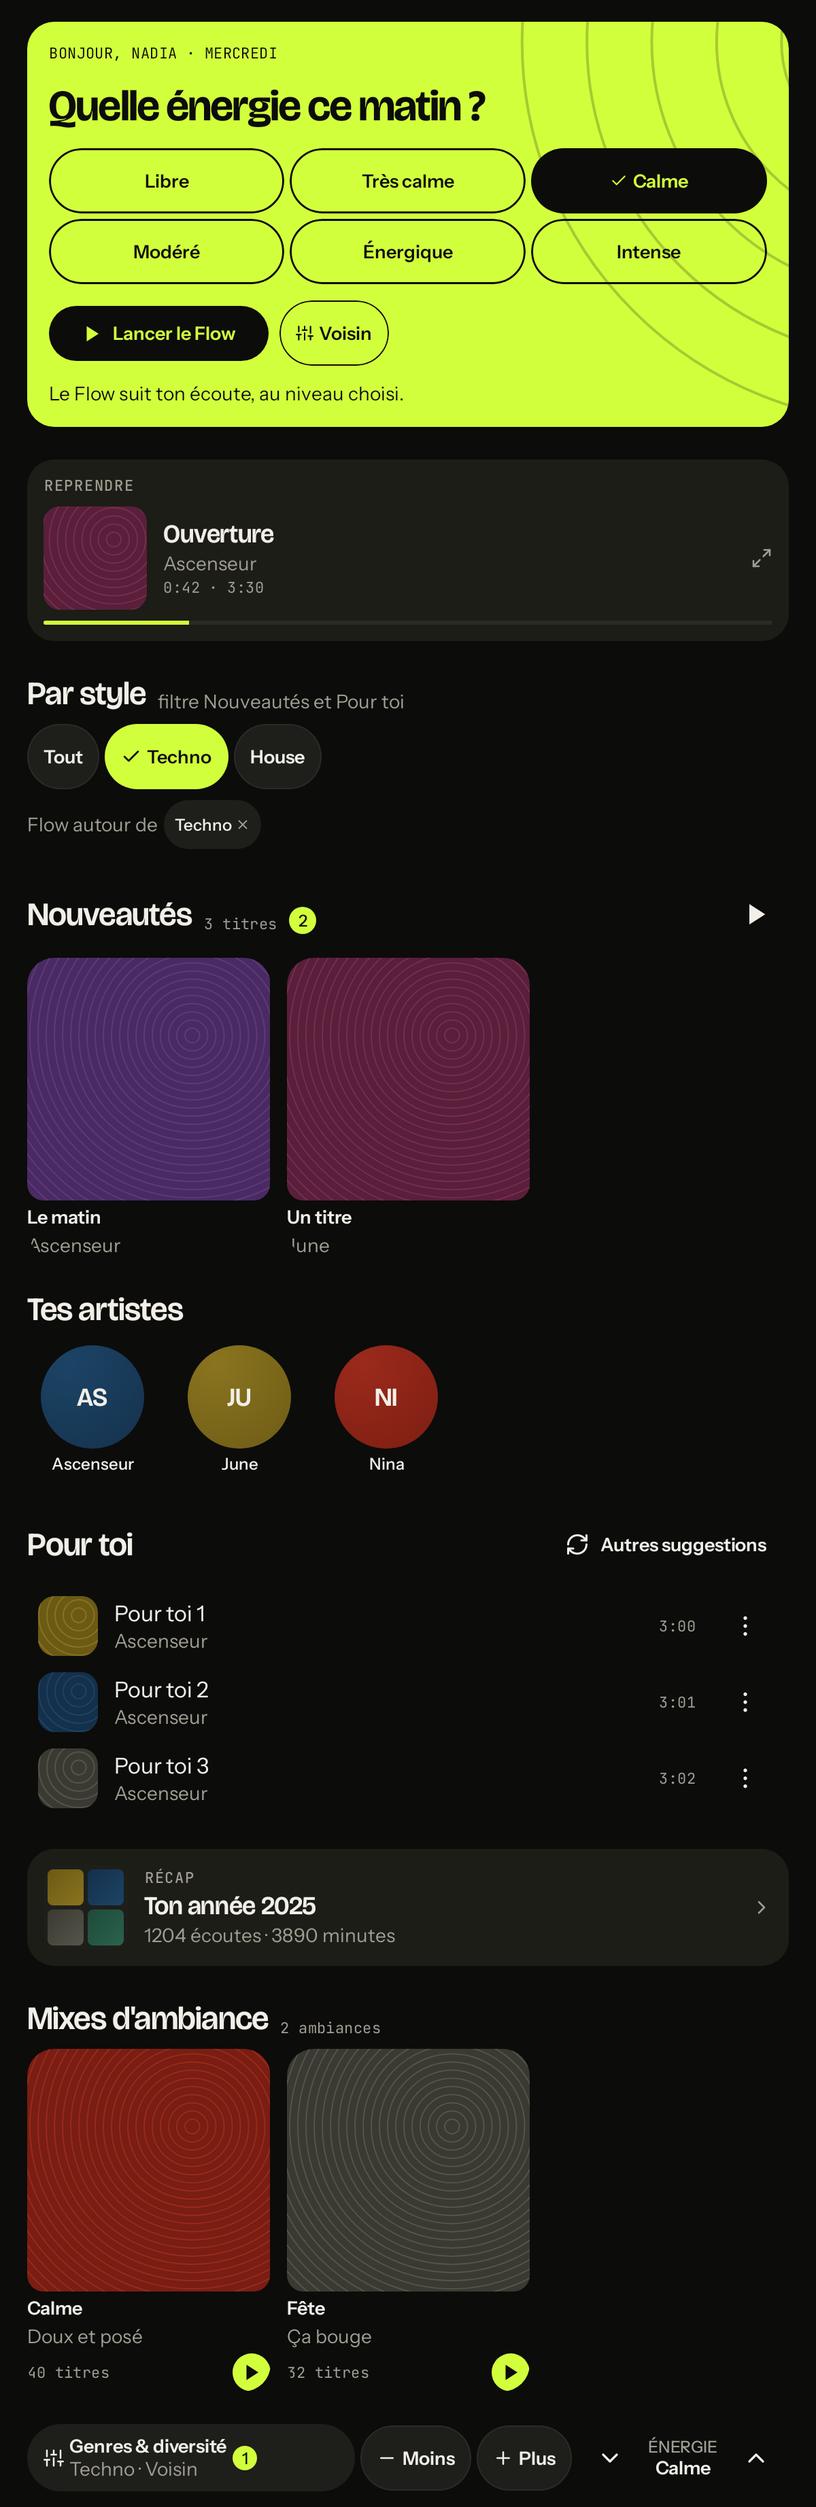
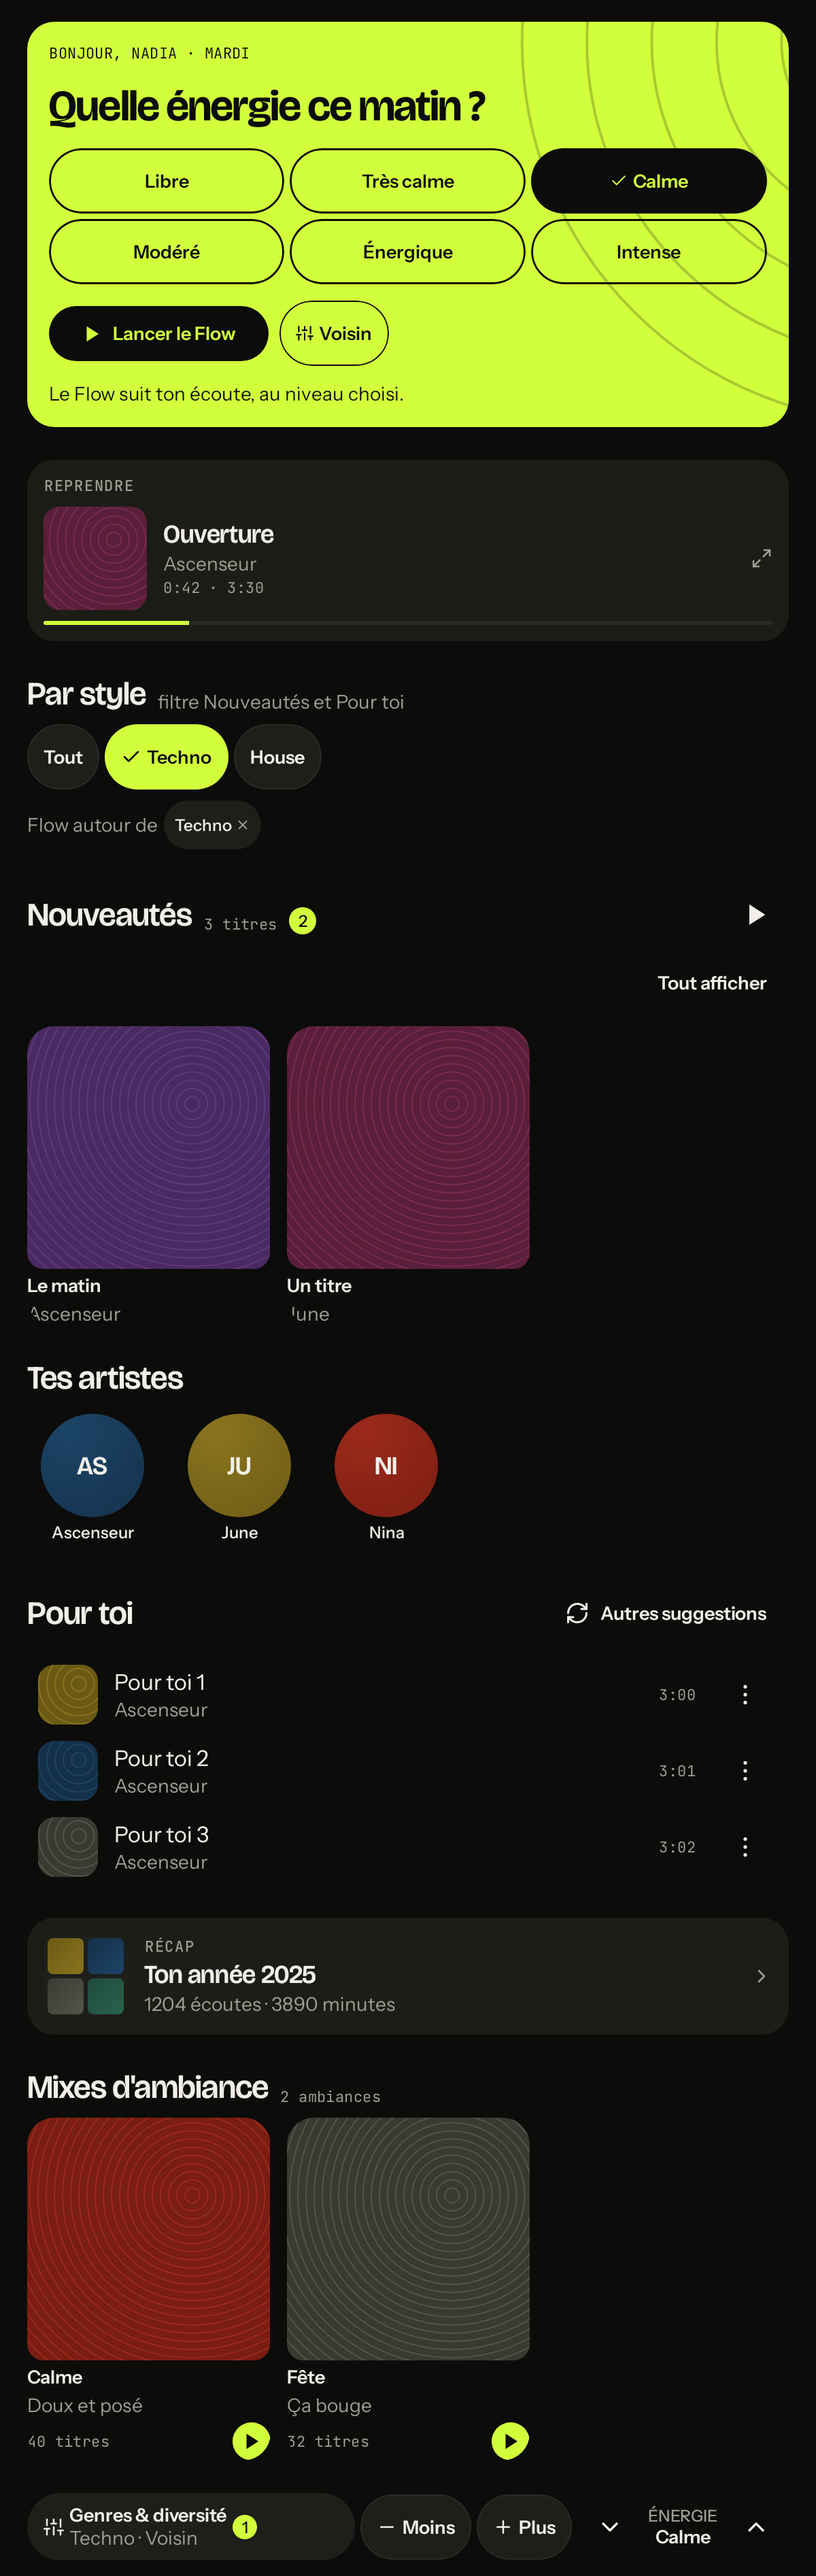
fix(mobile): « Tout afficher » mesure la carte, pas le titre (M8)
Les deux actions empilées dans une colonne de l'en-tête donnaient à cette
colonne la largeur du LIBELLÉ : au rendu 200 % de MB5, « Nouveautés » s'est
coupé en « Nouveau-/tés » et « 3 titres » est passé à un caractère par ligne.
Le lien passe donc sur sa propre rangée, à la même place et au même bord
droit qu'avant ; le titre garde la largeur qu'il avait avant la porte.

Les images de l'accueil de MB5 sont refaites par ce lot : elles montrent la
vraie page (Robolectric, graphismes natifs), 360 et 600 dp, Encre et Papier,
et le 200 % redevient celui d'avant pour le titre.

27 tests JVM verts, lintDebug vert (0 erreur).

diff --git a/mobile/android/feature/home/src/main/java/fr/neezer/mobile/feature/home/HomeScreen.kt b/mobile/android/feature/home/src/main/java/fr/neezer/mobile/feature/home/HomeScreen.kt
@@ -566,43 +566,50 @@ private fun StylePicker(state: HomeModel.State, actions: HomeActions) {
 private fun ReleasesShelf(releases: uniffi.nz_ffi.ReleasesCardData, actions: HomeActions) {
     val colors = Sillon.colors
     Column(verticalArrangement = Arrangement.spacedBy(NzSpacing.s)) {
-        Row(Modifier.fillMaxWidth(), verticalAlignment = Alignment.CenterVertically) {
-            Row(
-                Modifier.weight(1f),
-                verticalAlignment = Alignment.Bottom,
-                horizontalArrangement = Arrangement.spacedBy(NzSpacing.s),
-            ) {
-                Text("Nouveautés", style = Sillon.type.title, color = colors.tx)
-                Text(
-                    if (releases.count > 1u) "${releases.count} titres" else "${releases.count} titre",
-                    style = Sillon.type.mono,
-                    color = colors.dim,
-                )
-                if (releases.unseen > 0u) {
-                    Box(
-                        Modifier
-                            .size(20.dp)
-                            .clip(CircleShape)
-                            .background(colors.ac),
-                        contentAlignment = Alignment.Center,
-                    ) {
-                        Text(
-                            releases.unseen.toString(),
-                            style = Sillon.type.labelSmall,
-                            color = colors.onac,
-                        )
+        // The header, then « Tout afficher » on its OWN row rather than stacked
+        // under the play button in one column (`routes/Home.svelte:252` puts the
+        // link below the action): a column of the two measures as wide as the
+        // LABEL, and at 200 % that squeezed the title « Nouveautés » down to
+        // « Nouveau-/tés » with « 3 titres » one character per line (measured on
+        // the 200 % render of MB5). Both sit at the same right edge either way;
+        // only the title's width changes, and this keeps the width it had before
+        // the door existed.
+        Column(verticalArrangement = Arrangement.spacedBy(NzSpacing.xxs)) {
+            Row(Modifier.fillMaxWidth(), verticalAlignment = Alignment.CenterVertically) {
+                Row(
+                    Modifier.weight(1f),
+                    verticalAlignment = Alignment.Bottom,
+                    horizontalArrangement = Arrangement.spacedBy(NzSpacing.s),
+                ) {
+                    Text("Nouveautés", style = Sillon.type.title, color = colors.tx)
+                    Text(
+                        if (releases.count > 1u) "${releases.count} titres" else "${releases.count} titre",
+                        style = Sillon.type.mono,
+                        color = colors.dim,
+                    )
+                    if (releases.unseen > 0u) {
+                        Box(
+                            Modifier
+                                .size(20.dp)
+                                .clip(CircleShape)
+                                .background(colors.ac),
+                            contentAlignment = Alignment.Center,
+                        ) {
+                            Text(
+                                releases.unseen.toString(),
+                                style = Sillon.type.labelSmall,
+                                color = colors.onac,
+                            )
+                        }
                     }
                 }
-            }
-            Column(
-                horizontalAlignment = Alignment.End,
-                verticalArrangement = Arrangement.spacedBy(NzSpacing.xxs),
-            ) {
                 NzIconButton(
                     glyph = NzGlyph.Play,
                     contentDescription = "Tout lire",
                     onClick = { actions.playAllNew() },
                 )
+            }
+            Row(Modifier.fillMaxWidth(), horizontalArrangement = Arrangement.End) {
                 NzButton(
                     text = "Tout afficher",
                     onClick = { actions.openReleases() },

diff --git a/docs/agents/mobile.md b/docs/agents/mobile.md
@@ -6472,19 +6472,22 @@ cast sur `event.me` est refusé (propriété `val` d'un AUTRE module Gradle) : l
 (`DiscoveryEntries.kt`), donc une seule route pour la porte et la page, jamais un `NavController`
 dans l'écran.
 
-**Pourquoi une colonne et pas deux boutons côte à côte.** À 360 dp, l'en-tête porte déjà le titre,
-le compte (« N titres ») et la pastille des non-vus ; un troisième élément en ligne écrasait le
-titre. Le SPA empile aussi son lien sous l'action de lecture. La première rangée garde `weight(1f)`,
-donc le bouton n'est jamais mesuré à la largeur du titre et son libellé ne s'ellipse pas.
+**Pourquoi « Tout afficher » sur sa propre rangée, et pas empilé sous le bouton de lecture.** Le
+plan empilait les deux dans une `Column` de l'en-tête ; cette colonne mesure alors la largeur du
+LIBELLÉ, et à 200 % elle a pris sur le titre : « Nouveautés » s'est coupé en « Nouveau-/tés » et
+« 3 titres » est passé à un caractère par ligne (mesuré sur le rendu 200 % de MB5, refait par ce
+lot). Sur sa propre rangée, le lien est au MÊME bord droit, et le titre garde la largeur qu'il avait
+avant que la porte existe — le rendu 200 % redevient celui de MB5. Un `spacedBy(NzSpacing.xxs)`
+garde les deux actions serrées à 360 comme à 600 dp.
 
 **+0 requête, +0 octet.** La porte ne fait que naviguer : `openReleases = { nav.go(AppLink.Releases) }`
 n'ajoute aucun appel FFI et ne lit rien. `grep -n "openReleases" mobile/android/feature/home/src/main`
-→ 4 lignes (le champ de `HomeActions`, son commentaire, l'`NzButton` et le câblage), zéro appel au
-noyau. La page Nouveautés lit sa propre route (MB14 : `GET /releases` 116 835 B à froid, 0 à chaud).
+→ 3 lignes (le champ de `HomeActions`, l'`NzButton` et le câblage), zéro appel au noyau. La page
+Nouveautés lit sa propre route (MB14 : `GET /releases` 116 835 B à froid, 0 à chaud).
 
-**Mesuré par la CI, pas par un appareil.** `:feature:home:testDebugUnitTest` passe de 26 à **27**
-tests : `HomeReleasesDoorTest` (Robolectric, `w360dp-h800dp-xhdpi`) compose le VRAI `HomeScreen`
-sur `HomeFixtures` et clique `hasText("Tout afficher") and hasClickAction()` → `openReleases`
-appelé **une** fois. La capture demandée par le lot (Encre, 360 dp, la carte avec le lien) reste à
-faire : l'image de ce worker n'a ni JDK, ni SDK Android, ni émulateur. `mobile.yaml` prouve à la
-place `testDebugUnitTest`, `lintDebug`, `assembleRelease` et `Emulator smoke`.
+**Mesuré, pas supposé.** `:feature:home:testDebugUnitTest` : **27 tests, 0 échec** sur la JVM (JDK
+17, Gradle 8.14.7, Robolectric en graphismes NATIFS, en 1 min) — dont `HomeReleasesDoorTest`
+(`w360dp-h800dp-xhdpi`, `hasText("Tout afficher") and hasClickAction()` → `openReleases` appelé
+**une** fois). Les images de l'accueil de MB5 sont refaites par ce lot (le rendu de la vraie page,
+pas une maquette) : `docs/agents/screenshots/mobile/MB5/mb5-encre-360dp.png` porte le lien, et le
+200 % (`mb5-encre-360dp-font200.png`) est inchangé pour le titre.
